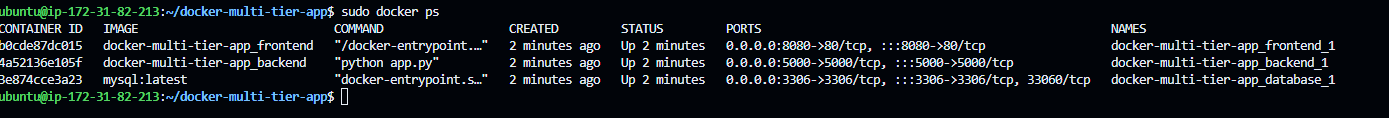
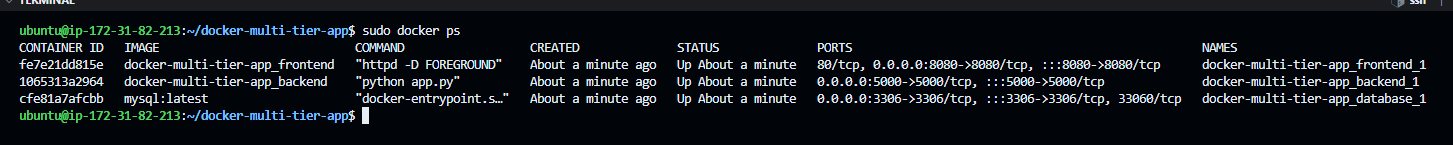
- Updated the results

diff --git a/README.md b/README.md
@@ -46,19 +46,21 @@ $ cd docker-multi-tier-app/
 
 ### Create the front-end Dockerfile with following content
 ```Dockerfile
-## Use a lightweight Nginx image as the base image
-FROM nginx:alpine
+# Use Apache as the base image
+FROM httpd:2.4-alpine
 
-# Copy the frontend HTML file to the Nginx web server directory
-COPY index.html /usr/share/ngnix/html/
+# Copy frontend files to the Apache web server directory
+COPY index.html /usr/local/apache2/htdocs/
+COPY app.js /usr/local/apache2/htdocs/
 
-# Copy the frontend JavaScript file to the Nginx web server directory
-COPY app.js /usr/share/ngnix/html/ 
+# Modify Apache configuration to listen on port 8080
+RUN sed -i 's/Listen 80/Listen 8080/g' /usr/local/apache2/conf/httpd.conf
 
-# Inject environment variables at runtime using envsubst
-COPY env.template.js /usr/share/nginx/html/env.js
+# Expose port 8080
+EXPOSE 8080
 
-CMD ["/bin/sh", "-c", "envsubst < /usr/share/nginx/html/env.js > /usr/share/nginx/html/env.js && exec nginx -g 'daemon off;'"]
+# Start Apache in the foreground
+CMD ["httpd", "-D", "FOREGROUND"]
 ```
 
 ### Create the back-end Dockerfile with following content
@@ -84,19 +86,17 @@ CMD ["python", "app.py"]
 
 ### Create the docker-compose.yml of the application with the following content
 ```yml
-version: '1.0'
+# docker-compose.yml
+version: '3.8'
 
 services:
-  
   # Frontend Service
   frontend:
     build: ./front-end  # Builds the frontend Docker image
     ports:
-      - "8080:80"  # Exposes frontend on port 8080
+      - "8080:8080"  # Exposes frontend on port 8080
     depends_on:
       - backend  # Ensures backend service starts before frontend
-    environment:
-      - BACKEND_URL=${BACKEND_URL}  # Loads backend URL from the .env file
 
   # Backend Service
   backend:
@@ -122,18 +122,29 @@ services:
       MYSQL_PASSWORD: password  # MySQL user password
     ports:
       - "3306:3306"  # Exposes MySQL on port 3306
+    volumes:
+      - db_data:/var/lib/mysql # persist the database data
 
 # Persistent Volume for Database
 volumes:
-  db_data:              
+  db_data: 
 ```
 
-## Update .env file with EC2 instance public IP
+## Update front-end/app.js file with EC2 instance public IP
 ```bash
-$ nano .env
+$ nano front-end/app.js
 ```
-```bash
-BACKEND_URL=http://18.206.205.18:5000
+```js
+document.addEventListener("DOMContentLoaded", function () {
+    const BACKEND_URL = "http://18.206.205.18:5000"; // Replace with your actual public IP
+
+    fetch(`${BACKEND_URL}/`)
+        .then(response => response.json())
+        .then(data => {
+            document.getElementById("backend-message").innerText = data.message;
+        })
+        .catch(error => console.error("Error fetching data:", error));
+});
 ```
 
 ## Run the Docker Compose
@@ -144,3 +155,11 @@ $ sudo docker ps
 ![alt text](images/compose-1.png)
 ![alt text](images/compose-2.png)
 ![alt text](images/compose-3.png)
+
+## Deployment Results
+
+- Visit: http://18.206.205.18:8080/ to check the frontend
+![alt text](images/output-1.png)
+- Visit: http://18.206.205.18:5000/ to check the backend
+![alt text](images/output-2.png)
+
